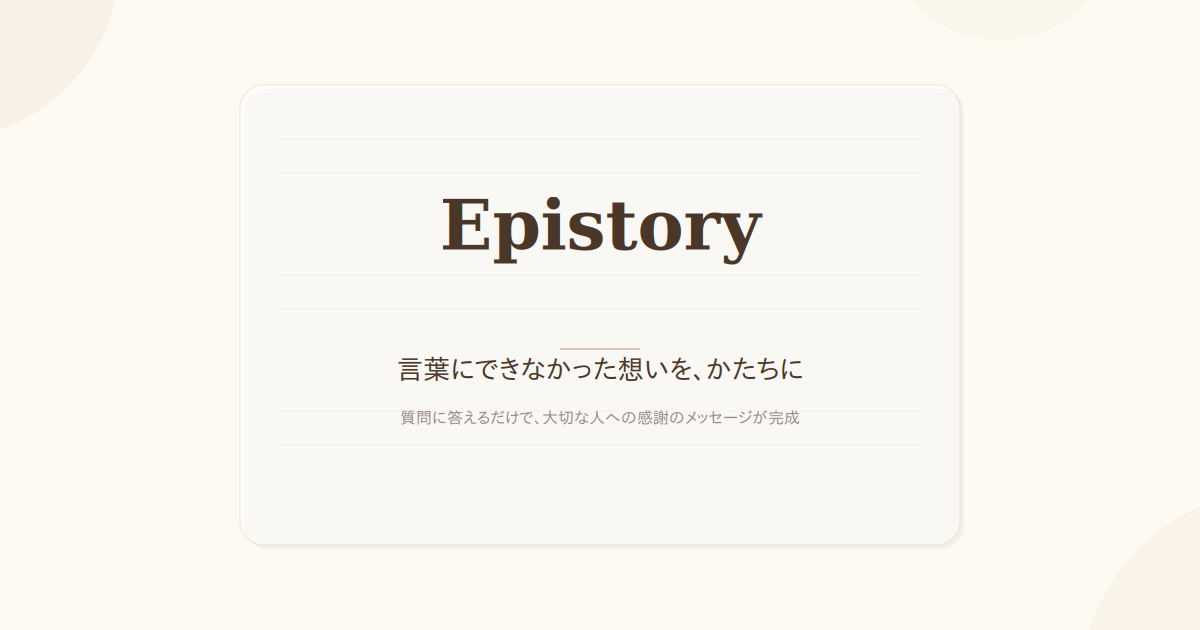
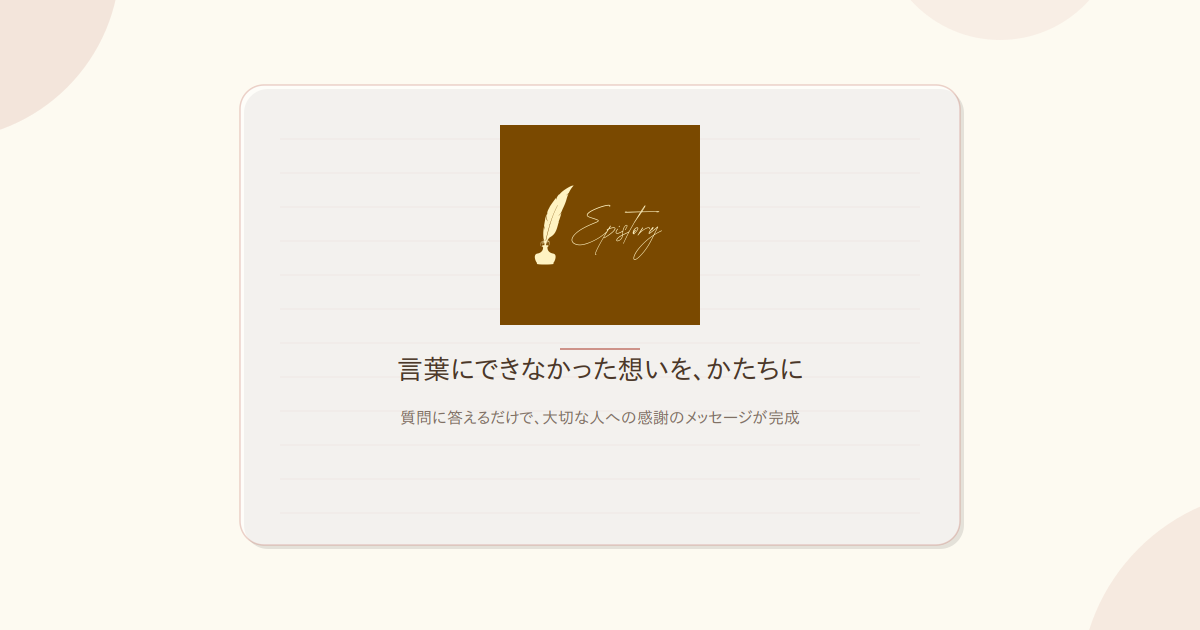
OGP画像の色味を強化しロゴ画像を組み込み
- 装飾要素（円、罫線、ボーダー、デコライン）のアルファ値を引き上げ、
  薄すぎて見えなかった問題を修正
- logo.png（ダークゴールド背景付きロゴ）を使用するよう変更
- logo_transparent.pngは実透過でなくチェッカーボードが焼き付いていたため
  logo.pngを優先するよう検索順を変更
- 出力フォーマットをRGB24に変更（不要なアルファチャンネルを除去）

https://claude.ai/code/session_019dNDcDNW3bpVEkEaUGPNBR

Changed region(s): [[0.37, 0.181, 0.6475, 0.573], [0.2158, 0.8444, 0.7708, 0.8746]]

diff --git a/scripts/generate_ogp.py b/scripts/generate_ogp.py
@@ -25,6 +25,7 @@ gobject = ctypes.CDLL(ctypes.util.find_library('gobject-2.0'))
 
 # ===== Constants =====
 CAIRO_FORMAT_ARGB32 = 0
+CAIRO_FORMAT_RGB24 = 1
 PANGO_SCALE = 1024
 PANGO_WEIGHT_NORMAL = 400
 PANGO_WEIGHT_BOLD = 700
@@ -65,7 +66,7 @@ class Ctx:
 
     def __init__(self, w, h):
         self.w, self.h = w, h
-        self.surface = cairo.cairo_image_surface_create(CAIRO_FORMAT_ARGB32, w, h)
+        self.surface = cairo.cairo_image_surface_create(CAIRO_FORMAT_RGB24, w, h)
         self.cr = cairo.cairo_create(self.surface)
 
     def save(self):
@@ -243,9 +244,9 @@ def gen_v1(logo_path, out):
 
     # Decorative soft circles
     soft_circles(c, [
-        (-60, -40, 180, 0.06),
-        (WIDTH + 80, HEIGHT + 60, 200, 0.05),
-        (WIDTH - 200, -80, 120, 0.03),
+        (-60, -40, 180, 0.15),
+        (WIDTH + 80, HEIGHT + 60, 200, 0.12),
+        (WIDTH - 200, -80, 120, 0.08),
     ])
 
     # Glass panel card
@@ -253,7 +254,7 @@ def gen_v1(logo_path, out):
     cx, cy = (WIDTH - cw) / 2, (HEIGHT - ch) / 2
 
     # Shadow
-    c.rgb((0, 0, 0), 0.04)
+    c.rgb((0, 0, 0), 0.10)
     c.rounded_rect(cx + 4, cy + 4, cw, ch, 24)
 
     # Card fill (semi-transparent white)
@@ -261,11 +262,11 @@ def gen_v1(logo_path, out):
     c.rounded_rect(cx, cy, cw, ch, 24)
 
     # Card border
-    c.rgb(COL['primary'], 0.12)
+    c.rgb(COL['primary'], 0.30)
     c.rounded_rect_stroke(cx, cy, cw, ch, 24, 1.5)
 
     # Ruled lines inside card
-    ruled_lines(c, cx + 40, cy + 20, cw - 80, ch - 40, sp=34, a=0.04)
+    ruled_lines(c, cx + 40, cy + 20, cw - 80, ch - 40, sp=34, a=0.10)
 
     # Logo
     logo_top = cy + 40
@@ -273,7 +274,7 @@ def gen_v1(logo_path, out):
 
     # Decorative line
     ly = logo_bottom + 24
-    deco_line(c, WIDTH/2, ly, 80, 2.0, 0.4)
+    deco_line(c, WIDTH/2, ly, 80, 2.0, 0.7)
 
     # Tagline
     ty = ly + 20
@@ -281,7 +282,7 @@ def gen_v1(logo_path, out):
     c.text_centered("言葉にできなかった想いを、かたちに", WIDTH/2, ty, size=20)
 
     # Sub text
-    c.rgb(COL['sub_text'], 0.7)
+    c.rgb(COL['sub_text'], 0.85)
     c.text_centered("質問に答えるだけで、大切な人への感謝のメッセージが完成", WIDTH/2, ty + 48, size=12)
 
     c.write(out)
@@ -295,18 +296,18 @@ def gen_v2(logo_path, out):
     bg_cream(c)
 
     # Warm overlay bands (top/bottom)
-    c.rgb(COL['bg_dark'], 0.3)
+    c.rgb(COL['bg_dark'], 0.5)
     c.rect(0, 0, WIDTH, 80)
-    c.rgb(COL['bg_dark'], 0.2)
+    c.rgb(COL['bg_dark'], 0.4)
     c.rect(0, HEIGHT - 80, WIDTH, 80)
 
     # Left margin line (letter feel)
-    c.rgb(COL['primary'], 0.15)
+    c.rgb(COL['primary'], 0.35)
     c.line(80, 40, 80, HEIGHT - 40, 2.0)
 
     # Corner decorations
     cn, cw_l, mg = 40, 2.0, 30
-    c.rgb(COL['primary'], 0.2)
+    c.rgb(COL['primary'], 0.45)
     for (ax, ay, dx, dy) in [
         (mg, mg, 1, 1), (WIDTH-mg, mg, -1, 1),
         (mg, HEIGHT-mg, 1, -1), (WIDTH-mg, HEIGHT-mg, -1, -1),
@@ -315,15 +316,15 @@ def gen_v2(logo_path, out):
         c.line(ax, ay, ax, ay + dy*cn, cw_l)
 
     # Faint ruled lines
-    ruled_lines(c, 100, 60, WIDTH - 200, HEIGHT - 120, sp=36, a=0.03)
+    ruled_lines(c, 100, 60, WIDTH - 200, HEIGHT - 120, sp=36, a=0.08)
 
     # Logo
     logo_bottom, _ = draw_logo_or_fallback(c, logo_path, WIDTH/2, 100, 240)
 
     # Decorative line with dots
     ly = logo_bottom + 30
-    deco_line(c, WIDTH/2, ly, 100, 2.0, 0.3)
-    c.rgb(COL['primary'], 0.3)
+    deco_line(c, WIDTH/2, ly, 100, 2.0, 0.6)
+    c.rgb(COL['primary'], 0.6)
     c.circle(WIDTH/2 - 58, ly, 3)
     c.circle(WIDTH/2 + 58, ly, 3)
 
@@ -333,7 +334,7 @@ def gen_v2(logo_path, out):
     c.text_centered("言葉にできなかった想いを、かたちに", WIDTH/2, ty, size=22, bold=True)
 
     # Sub text
-    c.rgb(COL['sub_text'], 0.6)
+    c.rgb(COL['sub_text'], 0.8)
     c.text_centered("質問に答えるだけで、大切な人への感謝のメッセージが完成", WIDTH/2, ty + 52, size=13)
 
     c.write(out)
@@ -347,15 +348,15 @@ def gen_v3(logo_path, out):
     bg_cream(c)
 
     # Large accent circle (right side, clipped)
-    c.rgb(COL['primary'], 0.06)
+    c.rgb(COL['primary'], 0.15)
     c.circle(WIDTH + 40, HEIGHT/2 + 40, 340)
 
     # Small accent circle
-    c.rgb(COL['primary'], 0.04)
+    c.rgb(COL['primary'], 0.10)
     c.circle(WIDTH - 200, 80, 80)
 
     # Tiny dot
-    c.rgb(COL['primary'], 0.15)
+    c.rgb(COL['primary'], 0.30)
     c.circle(120, HEIGHT - 100, 8)
 
     # Logo (slightly left of center)
@@ -365,7 +366,7 @@ def gen_v3(logo_path, out):
 
     # Decorative line
     ly = logo_bottom + 24
-    deco_line(c, content_cx, ly, 60, 2.5, 0.35)
+    deco_line(c, content_cx, ly, 60, 2.5, 0.65)
 
     # Tagline
     ty = ly + 22
@@ -373,7 +374,7 @@ def gen_v3(logo_path, out):
     c.text_centered("言葉にできなかった想いを、かたちに", content_cx, ty, size=20)
 
     # Sub text
-    c.rgb(COL['sub_text'], 0.6)
+    c.rgb(COL['sub_text'], 0.8)
     c.text_centered("質問に答えるだけで、大切な人への感謝のメッセージが完成", content_cx, ty + 44, size=12)
 
     c.write(out)
@@ -383,7 +384,7 @@ def gen_v3(logo_path, out):
 
 def find_logo():
     base = os.path.dirname(os.path.dirname(os.path.abspath(__file__)))
-    for name in ["logo_transparent.png", "logo.png"]:
+    for name in ["logo.png", "logo_transparent.png"]:
         p = os.path.join(base, "app", "assets", "images", name)
         if os.path.exists(p):
             return p
